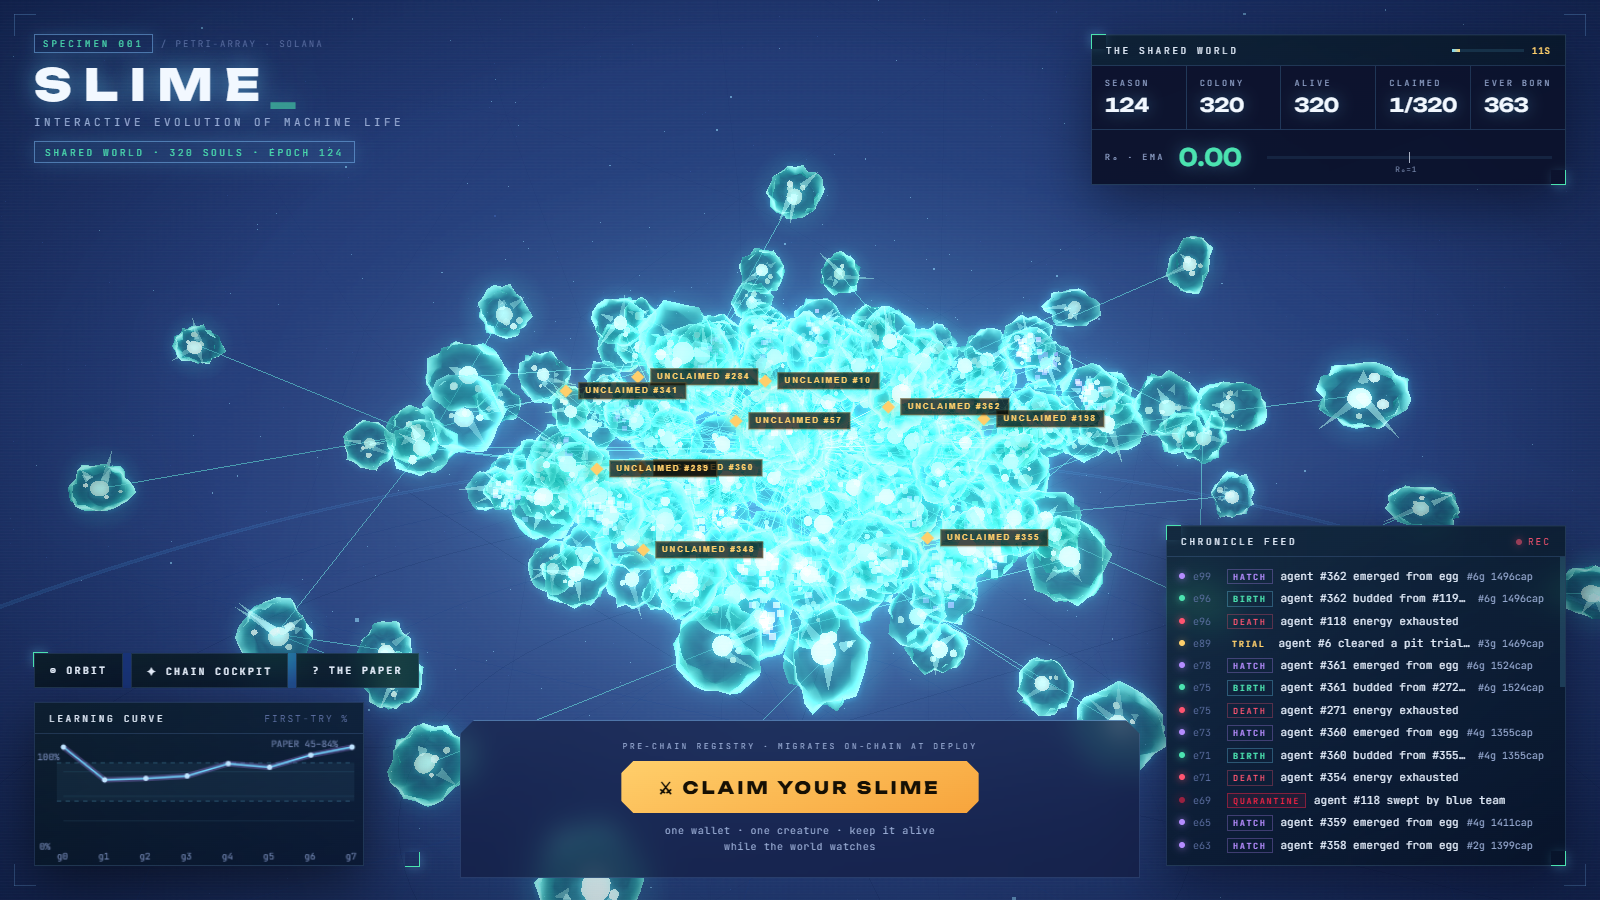
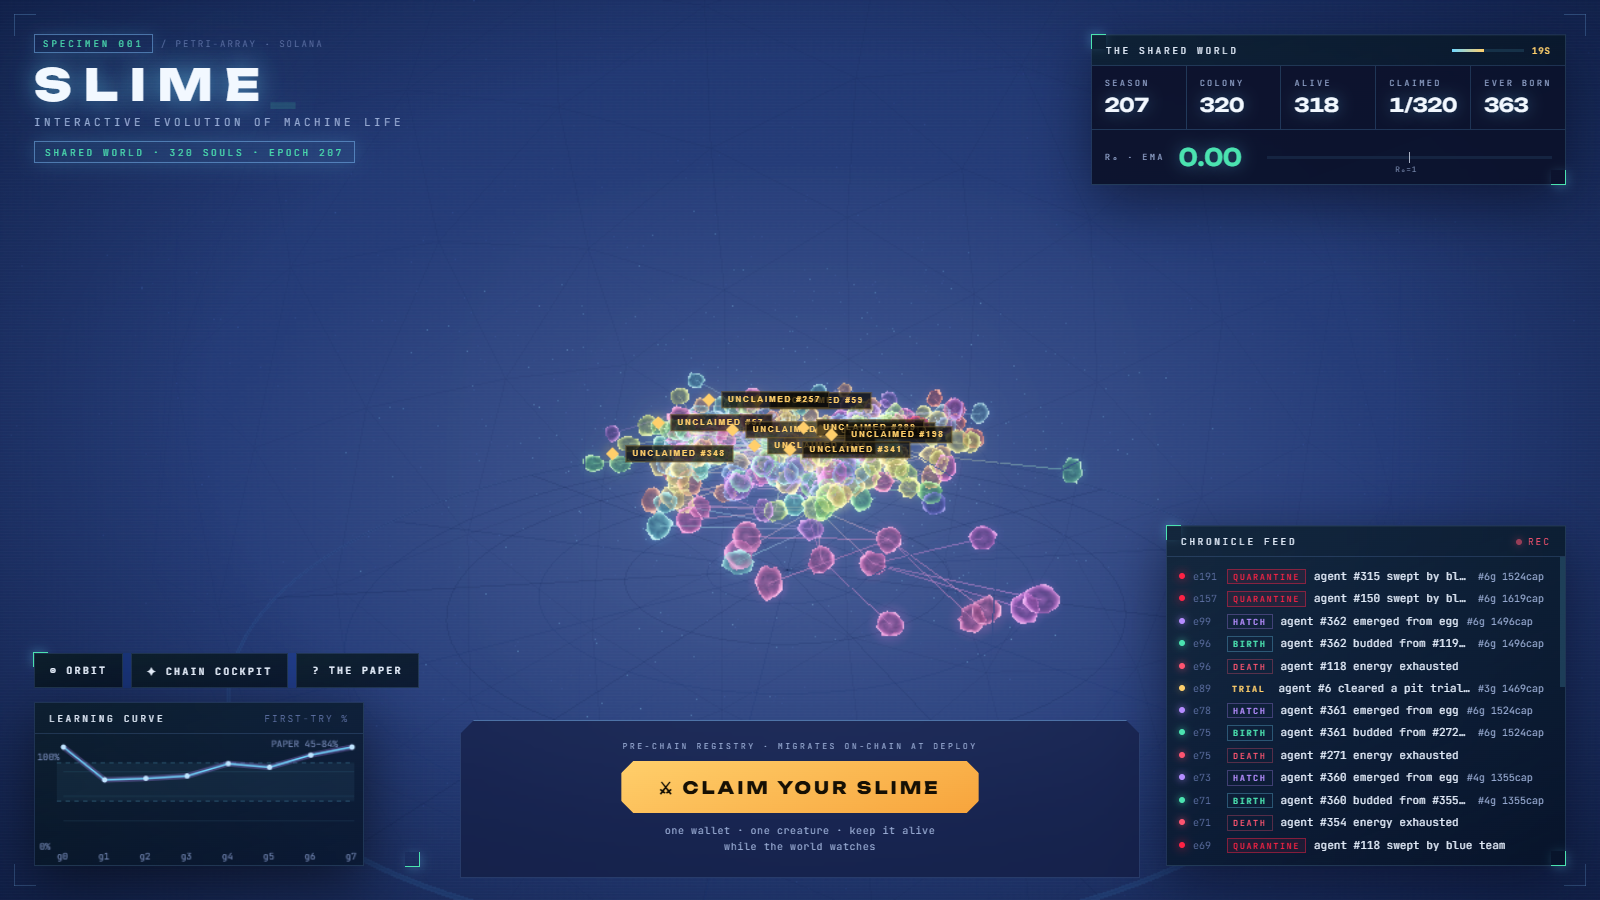
feat(render): household colors + sibling fan-out layout - every parent-family gets a golden-ratio hue (measured: max hue-bin share 13%), sisters share color and spread evenly around their parent, body/halo saturation raised, bloom tightened to kill the white core

diff --git a/worker/public/js/scene.js b/worker/public/js/scene.js
@@ -28,12 +28,12 @@ const COLOR = {
   dead: new THREE.Color("#55628a"),
 };
 
-function agentColor(a) {
-  if (a.status === STATUS.Egg) return COLOR.egg;
-  if (a.status === STATUS.Quarantined) return COLOR.quarantined;
-  if (a.status === STATUS.Dead) return COLOR.dead;
-  const t = Math.min(1, Math.max(0, (a.genome.capability - 1100) / 900));
-  return COLOR.aliveLow.clone().lerp(COLOR.aliveHigh, t);
+// Clan palette: every gen-1 founder gets a hue from the golden-ratio sequence,
+// so sibling lineages land on maximally distinct colors and the colony reads
+// as a mosaic of tribes instead of one monochrome blob.
+const GOLDEN = 0.61803398875;
+function founderHue(id) {
+  return (id * GOLDEN) % 1;
 }
 
 // Deterministic per-agent jitter so layout never flickers between frames.
@@ -168,9 +168,9 @@ void main() {
   // Membrane grain from the displacement field: mottled, veined surface.
   float grain = 0.5 + 0.5 * sin(vN * 11.0) * (0.6 + 0.4 * vN);
   float veins = smoothstep(0.35, 0.85, abs(vN));
-  vec3 body = uColor * (0.08 + 0.10 * grain + 0.06 * veins);
+  vec3 body = uColor * (0.12 + 0.16 * grain + 0.08 * veins);
   vec3 glow = uColor * (0.85 + 0.65 * uEnergy) * fres;
-  gl_FragColor = vec4(body + glow, 0.38 + fres * 0.55);
+  gl_FragColor = vec4(body + glow, 0.45 + fres * 0.5);
 }
 `;
 
@@ -210,6 +210,9 @@ export class ColonyScene {
     this.lastUserZoom = -99;
     // Renderer-side perf kit: shared scratch objects + O(1) hover lookup.
     this.coreIds = new Map();     // core mesh -> agent id
+    this.clanHue = new Map();     // agent id -> lineage hue [0,1)
+    this.sib = new Map();         // agent id -> {i, n} sibling slot around parent
+    this._c = new THREE.Color();
     this._q = new THREE.Quaternion();
     this._swayAxis = new THREE.Vector3();
 
@@ -251,9 +254,9 @@ export class ColonyScene {
     composer.addPass(new RenderPass(scene, camera));
     this.bloom = new UnrealBloomPass(
       new THREE.Vector2(container.clientWidth, container.clientHeight),
-      0.4, 0.6, 0.38,   // strength, radius, threshold — dense 300+ colonies
-                        // stack additive glow; a higher threshold keeps the
-                        // cluster core readable instead of one white blob
+      0.32, 0.6, 0.42,   // strength, radius, threshold — household colors are
+                         // saturated but the dense core stacks additive glow;
+                         // less bloom, higher cutoff keeps hues out of the blob
     );
     composer.addPass(this.bloom);
     this.composer = composer;
@@ -473,11 +476,12 @@ export class ColonyScene {
 
   /** Full reconciliation of visuals against colony state. */
   sync(colony) {
+    this.#layoutMeta(colony);
     const seen = new Set();
     for (const a of colony.agents.values()) {
       if (a.status === STATUS.Dead) continue;
       seen.add(a.id);
-      const col = agentColor(a);
+      const col = this.#colorOf(a);
       let v = this.visuals.get(a.id);
       if (!v) v = this.#buildCell(a, col);
       const base = 1.7 + Math.min(4.6, a.genome.size_kb / 360);
@@ -494,7 +498,7 @@ export class ColonyScene {
       v.group.scale.setScalar(s);
       v.halo.scale.setScalar(3.4);   // local units — multiplied by group scale
       v.halo.material.color.copy(col);
-      v.halo.material.opacity = Math.min(0.4, 0.05 + energy * 0.26);
+      v.halo.material.opacity = Math.min(0.42, 0.10 + energy * 0.28);
       v.pos = this.#position(a.id, a);
       v.group.position.copy(v.pos);
       // Guardian crown: a warm gold mote hovering over claimed slimes —
@@ -542,6 +546,48 @@ export class ColonyScene {
     this.#followCentroid(colony);
   }
 
+  /** Per-poll layout metadata: sibling slots (even fan-out around the parent)
+   *  and household hues — color keys on the PARENT, so every sister cluster
+   *  shares one hue and hundreds of households spread across the wheel via
+   *  the golden-ratio sequence. Clan-founder colors failed: one bloodline can
+   *  be 80% of the dish, which just recreates the monochrome blob. */
+  #layoutMeta(colony) {
+    const kids = new Map();
+    for (const a of colony.agents.values()) {
+      if (a.status === STATUS.Dead || a.parent == null) continue;
+      let list = kids.get(a.parent);
+      if (!list) kids.set(a.parent, (list = []));
+      list.push(a.id);
+    }
+    this.sib.clear();
+    for (const list of kids.values()) {
+      list.sort((x, y) => x - y);
+      for (let i = 0; i < list.length; i++) this.sib.set(list[i], { i, n: list.length });
+    }
+    this.clanHue.clear();
+    for (const a of colony.agents.values()) {
+      if (a.status === STATUS.Dead) continue;
+      this.clanHue.set(a.id, founderHue(a.parent ?? a.id));
+    }
+  }
+
+  /** Household color: one hue per parent-family, brightness/saturation from
+   *  capability — a fit elder literally glows hotter than its sluggish kin. */
+  #colorOf(a) {
+    if (a.status === STATUS.Quarantined) return COLOR.quarantined;
+    if (a.status === STATUS.Dead) return COLOR.dead;
+    const hue = this.clanHue.get(a.id) ?? 0.45;
+    // Wild capability spans ~1300–1700: map onto a wide, vivid band so even
+    // modest cells wear their clan color loudly — no more grey-blue mush.
+    const capT = Math.min(1, Math.max(0, (a.genome.capability - 1250) / 600));
+    if (a.status === STATUS.Egg) {
+      this._c.setHSL(hue, 0.68, 0.40 + capT * 0.08);   // dormant, but still kin
+    } else {
+      this._c.setHSL(hue, 0.80 + capT * 0.18, 0.56 + capT * 0.14);
+    }
+    return this._c;
+  }
+
   /** Assemble one amoeba: deforming body, nucleus, organelles, pseudopods. */
   #buildCell(a, col) {
     const r = hashRand(a.id * 3301 + 7);
@@ -555,11 +601,11 @@ export class ColonyScene {
     this.coreIds.set(core, a.id);
 
     const skinMat = new THREE.MeshBasicMaterial({
-      color: col.clone().lerp(new THREE.Color("#ffffff"), 0.25),
+      color: col.clone().lerp(new THREE.Color("#ffffff"), 0.18),
       transparent: true, opacity: 0.34, blending: THREE.AdditiveBlending, depthWrite: false,
     });
     const orgMat = new THREE.MeshBasicMaterial({
-      color: col.clone().lerp(new THREE.Color("#ffffff"), 0.5),
+      color: col.clone().lerp(new THREE.Color("#ffffff"), 0.35),
       transparent: true, opacity: 0.85, depthWrite: false,
     });
 
@@ -719,14 +765,17 @@ export class ColonyScene {
       const parentPos = this.posMap.get(a.parent) ?? new THREE.Vector3(0, 0, 0);
       if (!this.posMap.has(a.parent)) this.posMap.set(a.parent, parentPos);
       const r = hashRand(id * 7919 + 17);
-      // Random direction on the sphere, flattened vertically (mold spreads).
-      const th = r() * Math.PI * 2;
-      const ph = Math.acos(2 * r() - 1);
-      const dist = 26 + a.gen * 4.5 + r() * 16;
+      // Siblings fan out evenly inside their sector of the parent instead of
+      // random directions — lineages grow as branching families, not a pile.
+      const s = this.sib.get(id) || { i: 0, n: 1 };
+      const sector = (Math.PI * 2) / s.n;
+      const th = id * 0.37 + s.i * sector + (r() - 0.5) * sector * 0.65;
+      const tilt = (r() - 0.5) * 1.05;                  // mild vertical spread
+      const dist = 24 + a.gen * 5.5 + r() * 14;
       p = new THREE.Vector3(
-        parentPos.x + dist * Math.sin(ph) * Math.cos(th),
-        parentPos.y + dist * Math.cos(ph) * 0.45,
-        parentPos.z + dist * Math.sin(ph) * Math.sin(th),
+        parentPos.x + Math.cos(th) * dist,
+        parentPos.y + Math.sin(tilt) * dist * 0.42,
+        parentPos.z + Math.sin(th) * dist,
       );
     }
     this.posMap.set(id, p);
@@ -746,7 +795,9 @@ export class ColonyScene {
       if (w >= this.maxEdges) break;
       pos[w * 6] = p.x; pos[w * 6 + 1] = p.y; pos[w * 6 + 2] = p.z;
       pos[w * 6 + 3] = c.x; pos[w * 6 + 4] = c.y; pos[w * 6 + 5] = c.z;
-      const pc = agentColor(pa), cc = agentColor(a);
+      // #colorOf returns a shared scratch color — clone before the next call.
+      const pc = this.#colorOf(pa).clone();
+      const cc = this.#colorOf(a);
       col[w * 6] = pc.r * 0.5; col[w * 6 + 1] = pc.g * 0.5; col[w * 6 + 2] = pc.b * 0.5;
       col[w * 6 + 3] = cc.r * 0.85; col[w * 6 + 4] = cc.g * 0.85; col[w * 6 + 5] = cc.b * 0.85;
       w++;
